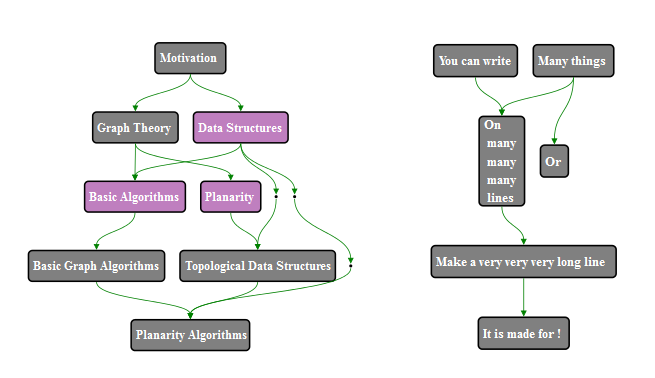
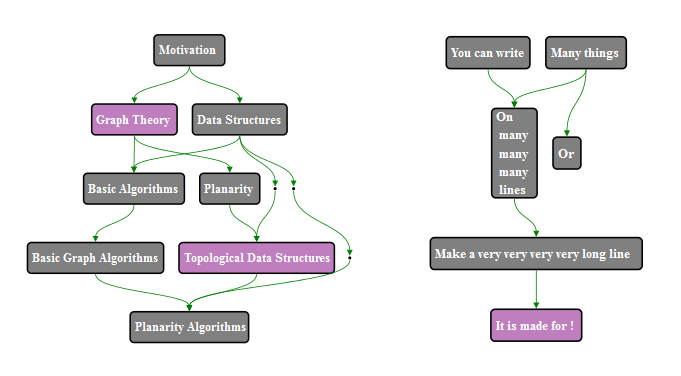
update screenshot

Changed region(s): [[0.0305, 0.0878, 0.5496, 0.9362], [0.6107, 0.0878, 0.9466, 0.7606], [0.7023, 0.7899, 0.8855, 0.9362]]

diff --git a/examples/04_table/data.js b/examples/04_table/data.js
@@ -6,7 +6,7 @@ var nodes1 = {
 		'4':{"label":" Basic Algorithms"},
 		'5':{"label":"Planarity"},
 		'6':{"label":"Basic Graph Algorithms"},
-		'7':{"label":" Topological Data Structures"},
+		'7':{"label":" Topological Data Structures","highlighted":1},
 		'8':{"label":" Planarity Algorithms"}
 };
 var edges1 = [[3,5],[2,7],[4,6],[6,8],[2,4],[5,7],[1,3],[2,8],[1,2],[7,8],[3,4]];
